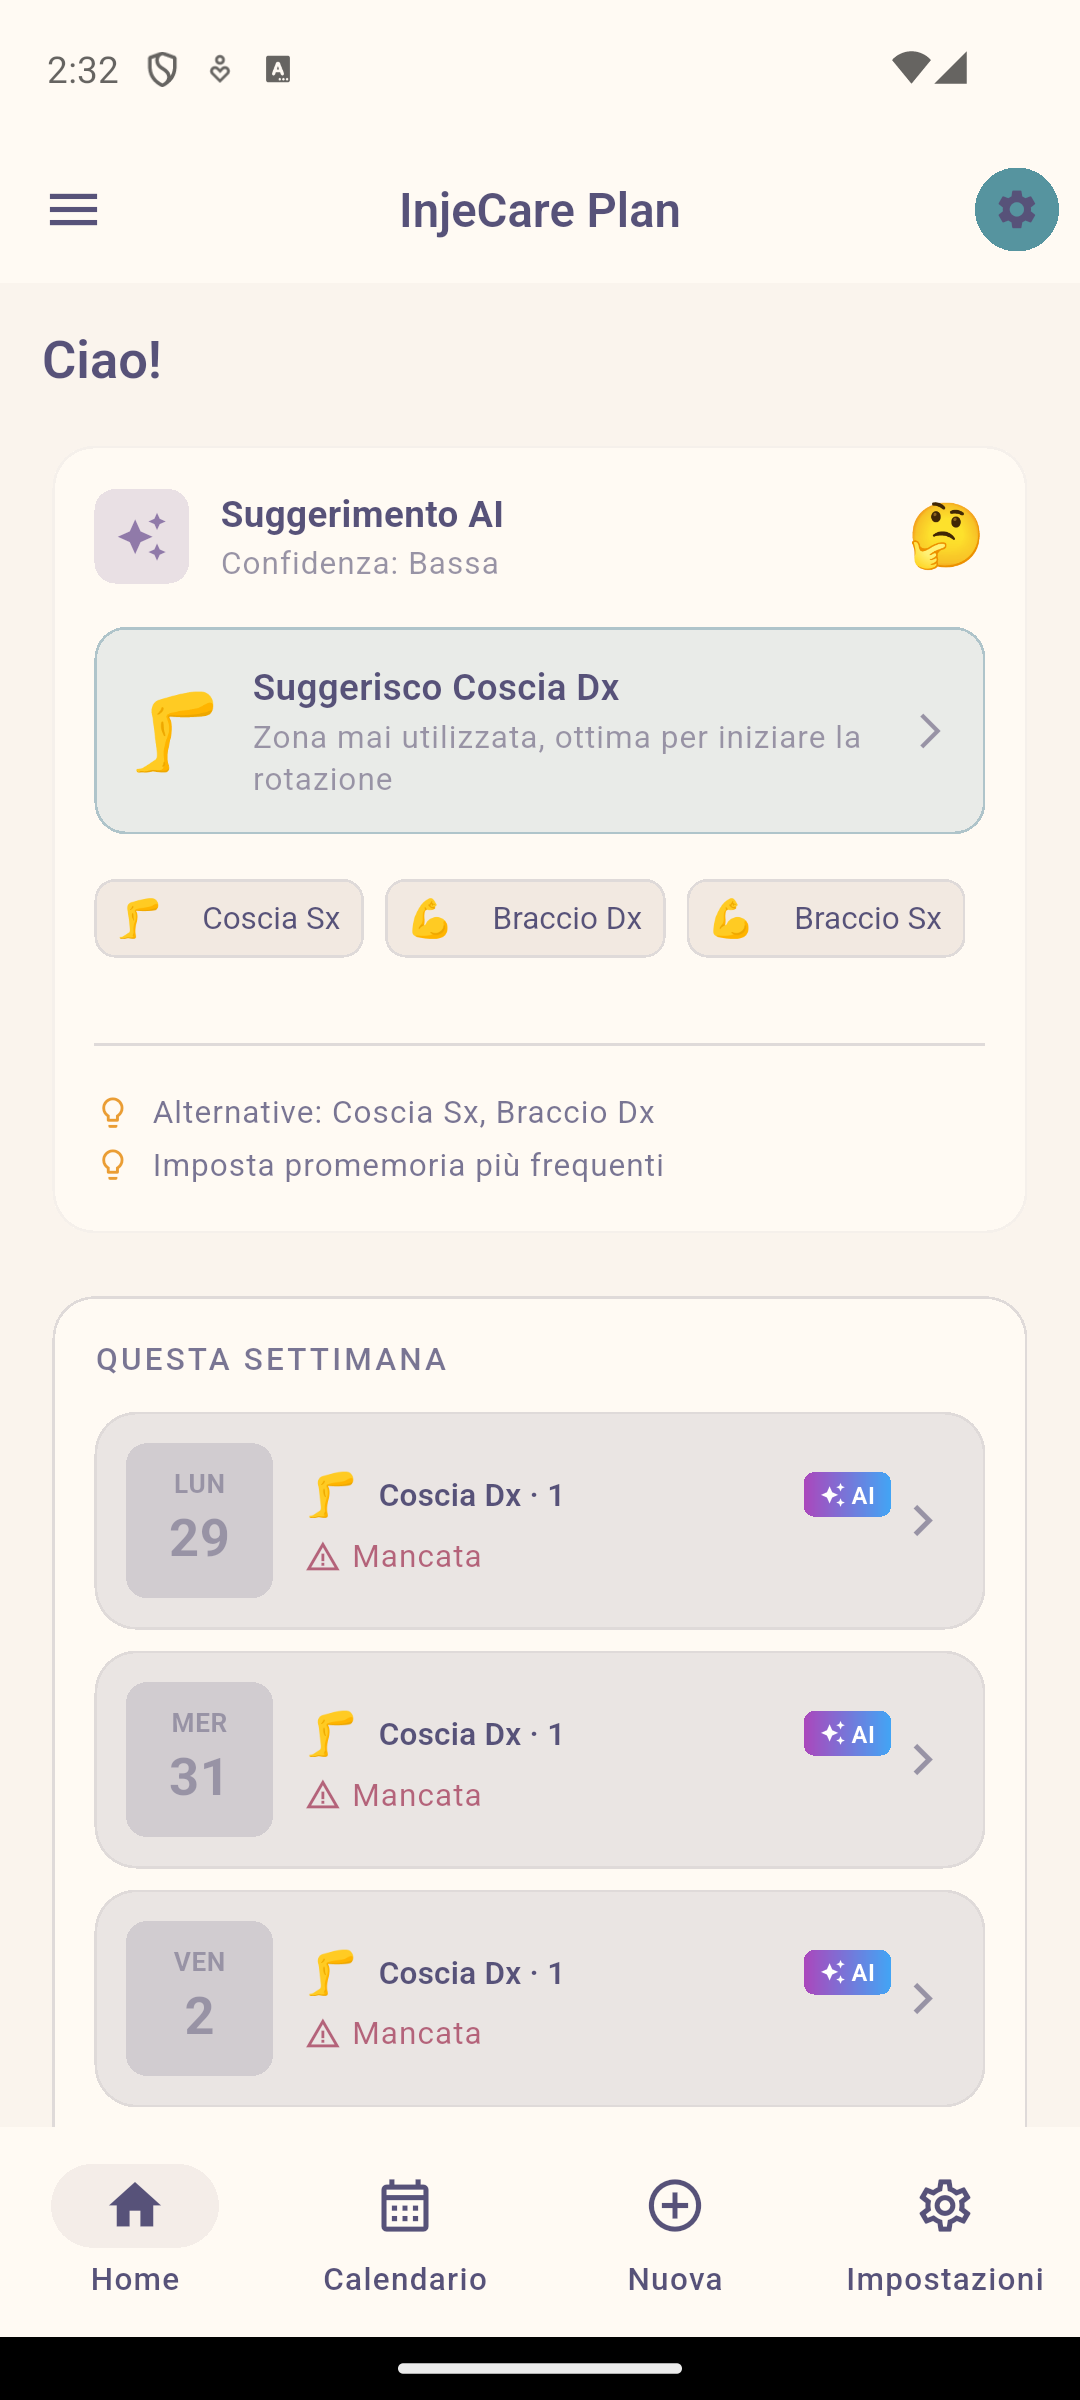
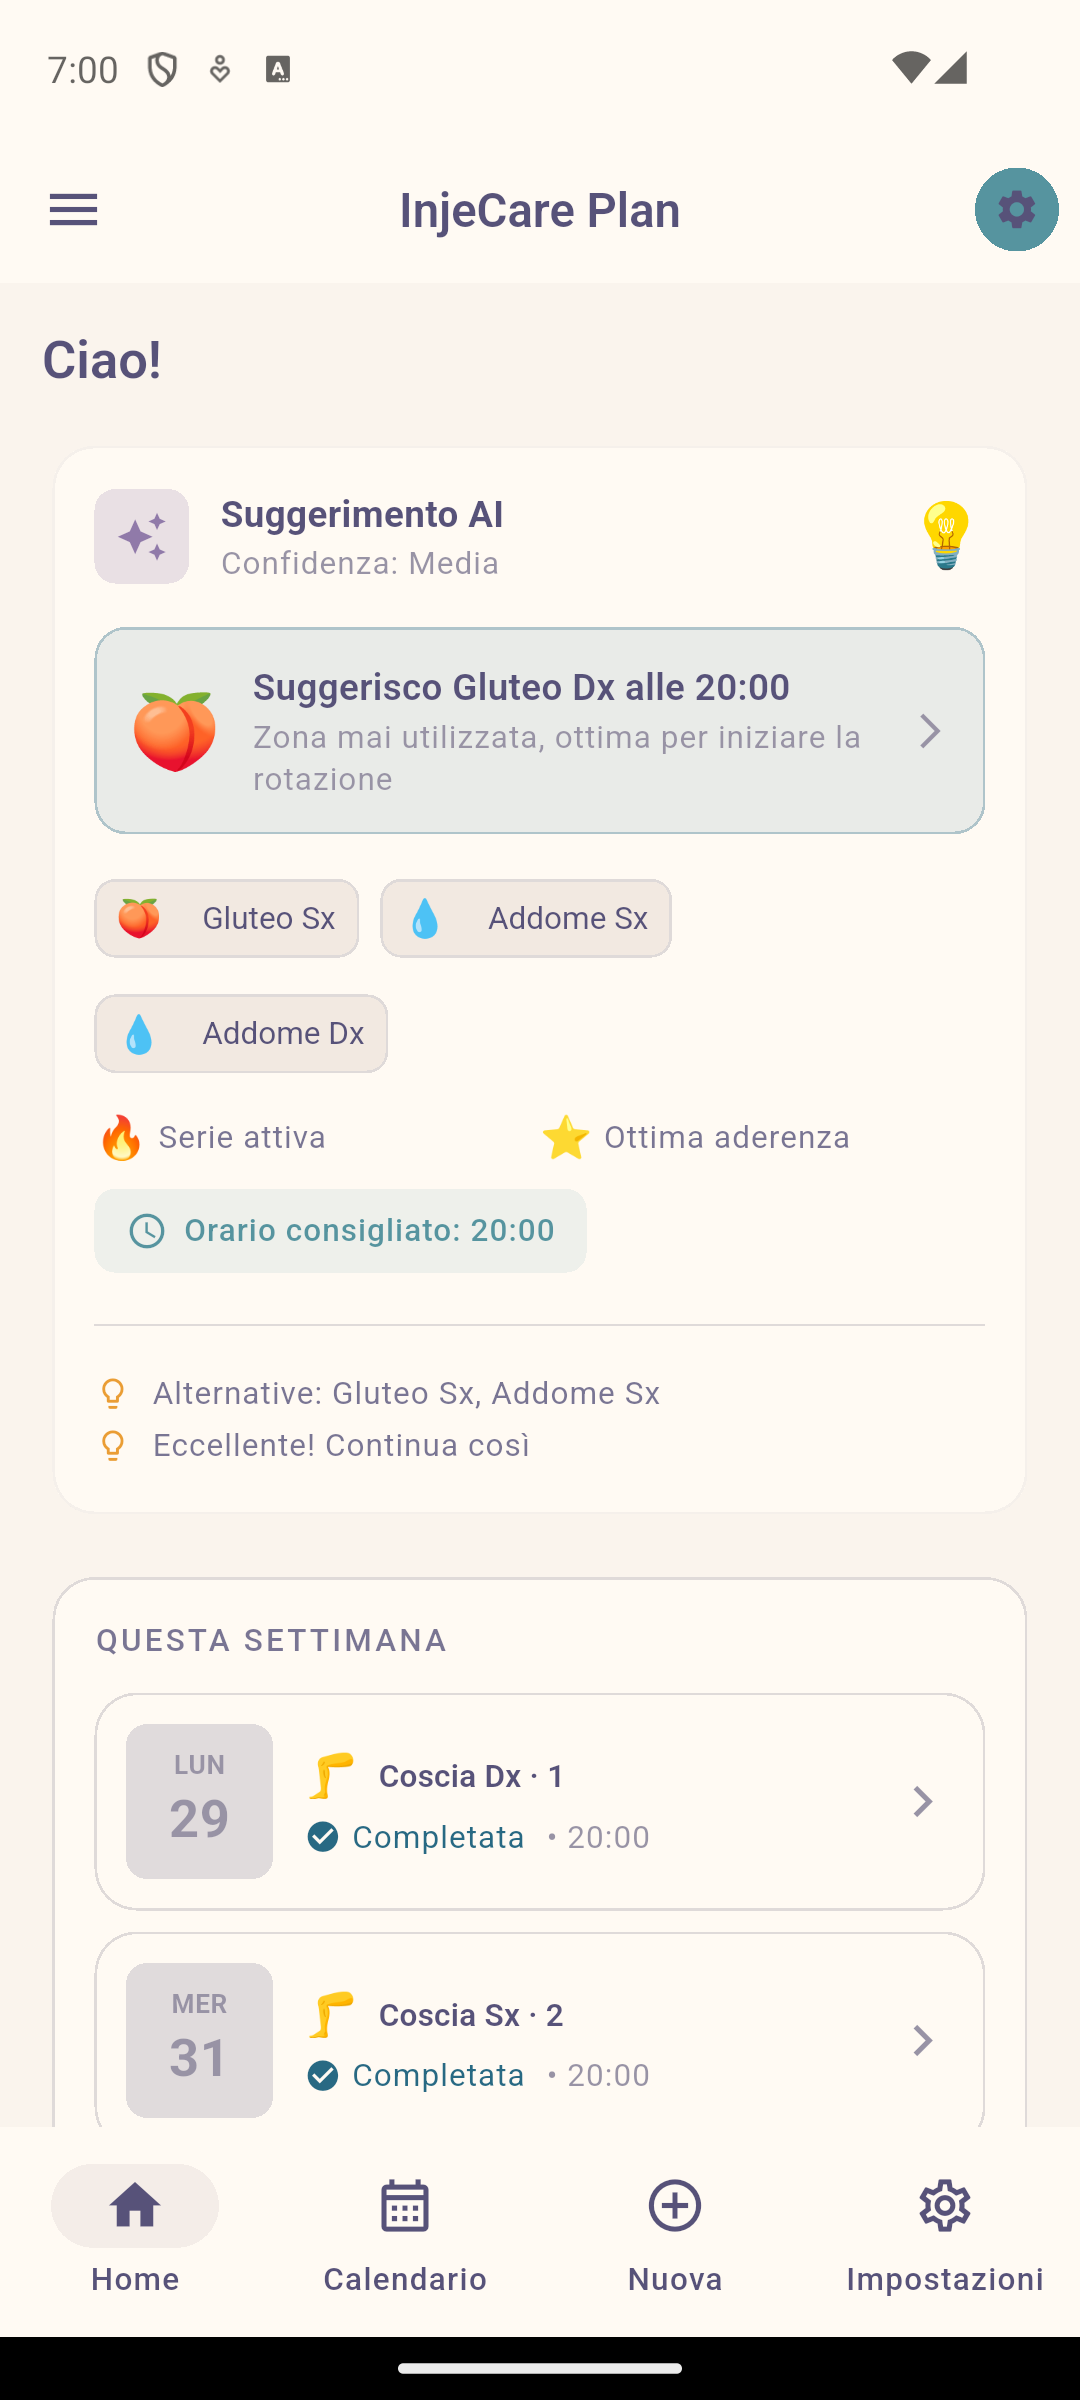
docs: aggiorna screenshot con le nuove funzionalità
- Screenshot home con suggerimento AI e iniezioni
- Screenshot calendario con indicatori iniezioni
- Screenshot impostazioni con pattern di rotazione
- Screenshot selezione punti con suggerimento
- Screenshot onboarding e demo data

v3.4.2

diff --git a/lib/features/settings/settings_screen.dart b/lib/features/settings/settings_screen.dart
@@ -1004,7 +1004,7 @@ class _RotationPatternSection extends ConsumerWidget {
                       if (planId == null) return;
 
                       final service = ref.read(rotationPatternServiceProvider);
-                      
+
                       // Se è la rotazione settimanale, inizializza la data
                       if (patternType == RotationPatternType.weeklyRotation) {
                         await service.initWeeklyRotation();

diff --git a/CHANGELOG.md b/CHANGELOG.md
@@ -5,6 +5,14 @@ Tutte le modifiche rilevanti a InjeCare Plan sono documentate in questo file.
 Il formato segue [Keep a Changelog](https://keepachangelog.com/it/1.0.0/),
 e il progetto aderisce a [Semantic Versioning](https://semver.org/lang/it/).
 
+## [3.4.2] - 2026-01-04
+
+### Migliorato
+- **Screenshot aggiornati**: Tutti gli screenshot del README mostrano correttamente le nuove funzionalità
+- Screenshot per: Home, Calendario, Selezione punti, Impostazioni, Demo data, Onboarding
+
+---
+
 ## [3.4.1] - 2026-01-04
 
 ### Corretto
